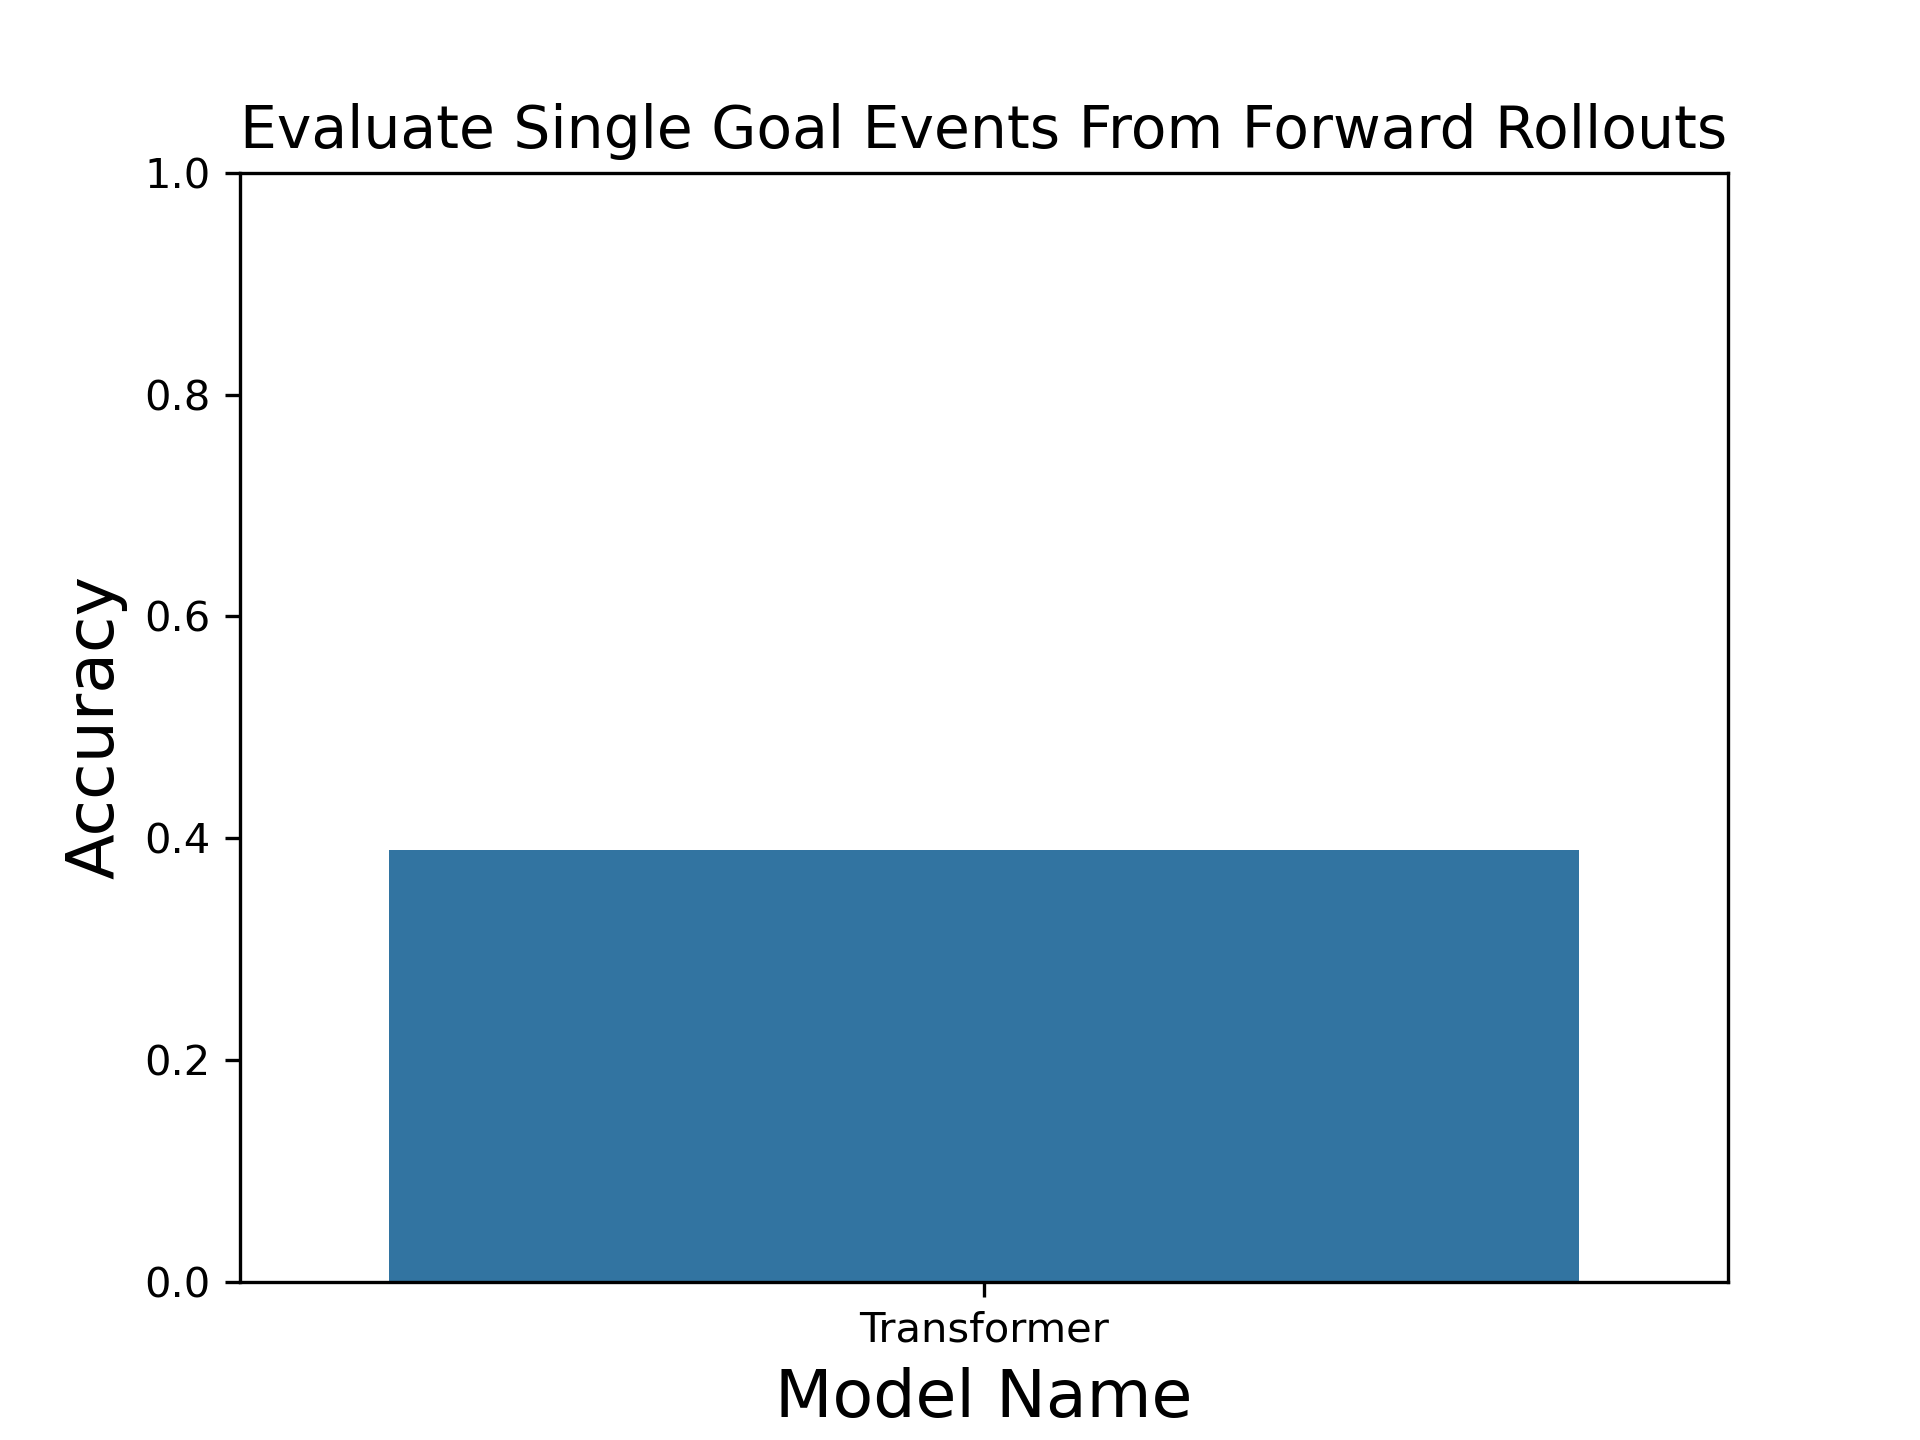
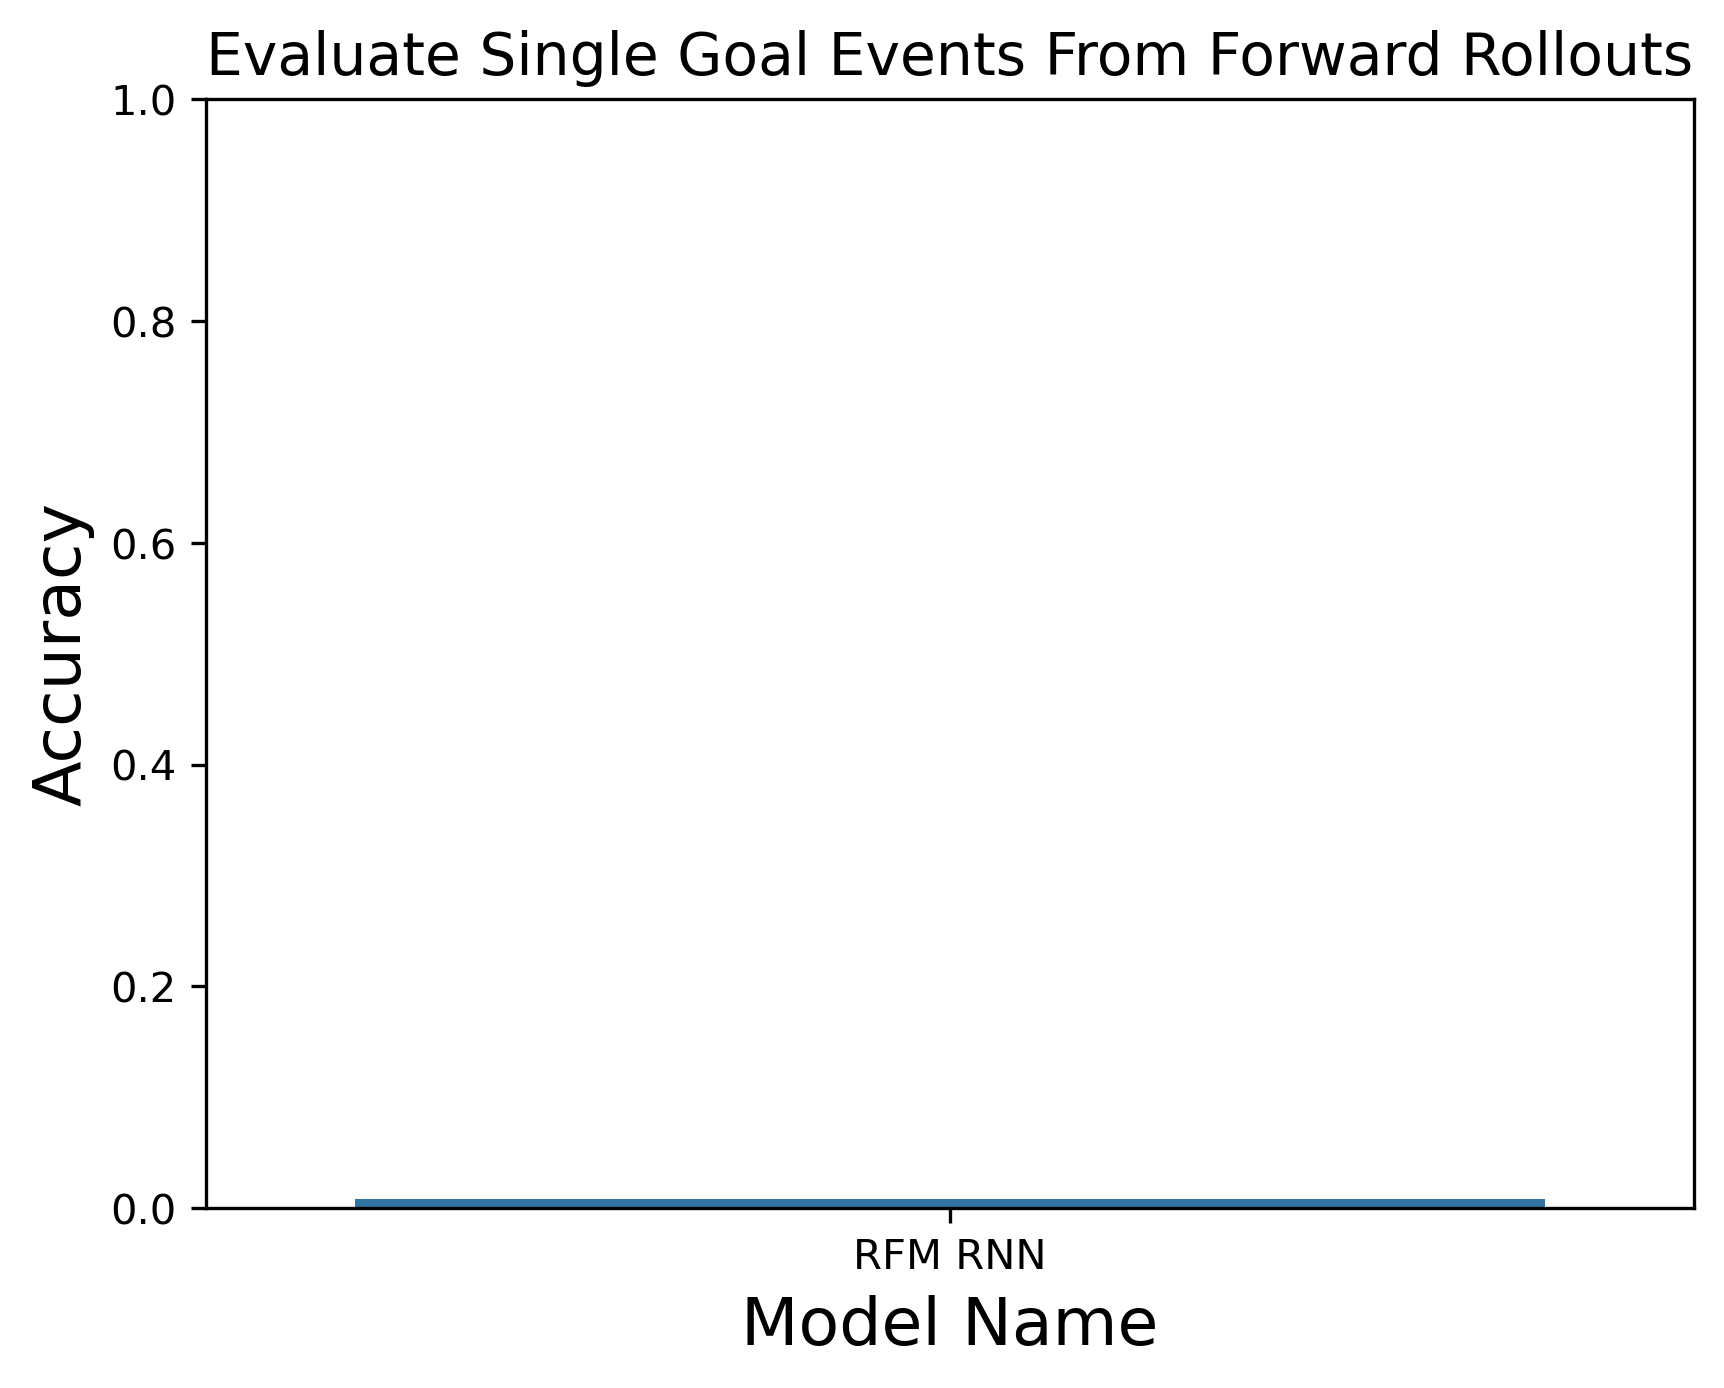
Minor

diff --git a/constants_lc.py b/constants_lc.py
@@ -63,8 +63,8 @@ DEFAULT_VALUES = {
     'results_dir': '/Users/locro/Documents/Stanford/SocialWorldModeling/results/' if platform.system() == 'Windows' else  '/home/locross/SocialWorldModeling/results',
     'model_config_dir': './model_configs',
     #'model_keys': list(MODEL_DICT_VAL.keys()),
-    'model_keys': ['multistep_pred'],
-    #'model_keys': ['mp_ds2', 'rssm_disc_ds2', 'rssm_cont_ds2'],
+    #'model_keys': ['multistep_pred'],
+    'model_keys': ['mp_ds2', 'rssm_disc_ds2', 'rssm_cont_ds2'],
     'eval_types': ['goal_events', 'multigoal_events', 'move_events'],
     'move_threshold': 4.0,
     'non_goal_burn_in': 50,
